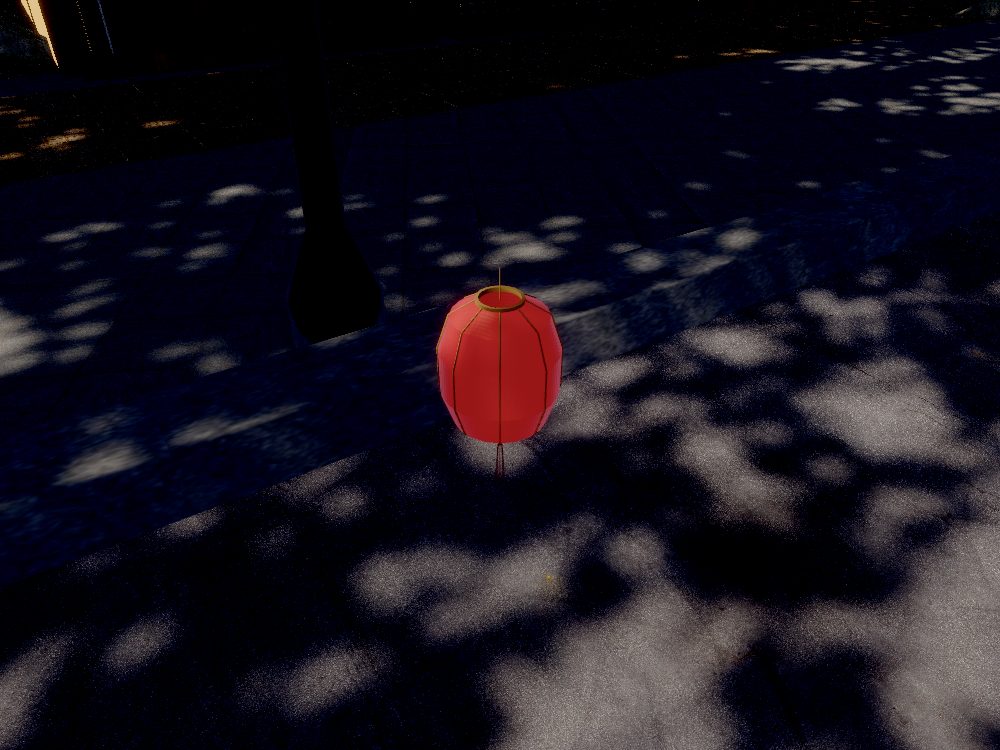
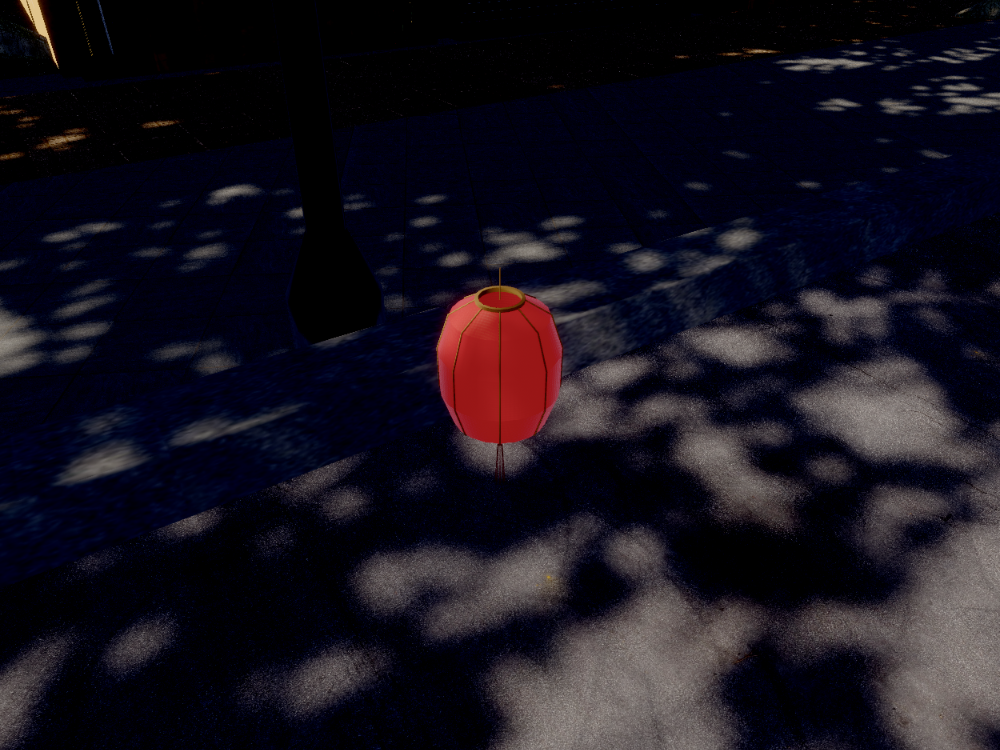
Add updated lantern WebGL review captures

diff --git a/examples/game-hanoi-city/review/06/README.md b/examples/game-hanoi-city/review/06/README.md
@@ -7,14 +7,15 @@ translucent body had a WebGL sorting problem that hid the bamboo ribs; these
 files instead use an opaque shell and a silk-only emissive mask. This is a
 visual approximation rather than physical transmission.
 
-The two `den_long_01_game_*.png` images show the previous UV version in the
-actual WebGL game with the
-temporary `assets/hq/reports/qc-lantern-review-harness.patch`. It places the
-prop on the street beside an existing lamp for inspection, rather than in its
-eventual hanging position. The camera is 1.5 m above the ground and 1.5 m
-horizontally from the prop. The daytime image is heavily shaded by the scene;
-the night image uses the game's existing street light. Both are raw 1000 × 750
-framebuffer captures. The harness is not applied to game source.
+The six `den_long_0{1,2,3}_game_{day,night}.png` images show the revised
+LOD0 GLBs in a locally built WebGL game using the earlier temporary
+`assets/hq/reports/qc-lantern-review-harness.patch`. This local executable is
+from the previous game revision, not a fresh build of current `main`. The
+harness places each prop on the street beside an existing lamp for inspection,
+not in its eventual hanging position. The camera is 1.5 m above the ground and
+1.5 m horizontally from the prop. Daytime views are heavily shaded; night
+views use the existing street light. The 1000 × 750 screenshots were captured
+in Chrome. The harness is not applied to current game source.
 
 The real game does not yet place these props in the lantern strings. The revised
 LOD0 uses 1024 px atlases, 8 px island borders and 512 px/m density; all measured
@@ -23,5 +24,6 @@ and 256 px/m. Summed UV island areas cover only about 19.2%, 18.2% and 14.9%
 of the LOD0 atlases: the earlier 70% utilization goal remains unmet. See
 `assets/hq/reports/lantern-uv-density.json` for the measurements.
 
-Current in-game day/night captures, LOD transitions, close seam inspection,
-actual hanging placement and final artistic approval remain outstanding.
+Fresh captures in the latest game, LOD transitions, close seam inspection,
+actual hanging placement and final artistic approval remain outstanding. The
+round lantern outlines still look visibly faceted at this review distance.
